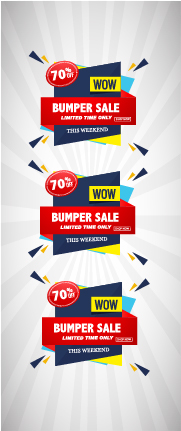
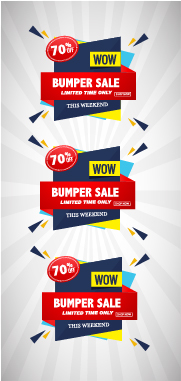
ban

Changed region(s): [[0.1381, 0.0577, 0.8287, 0.9239]]

diff --git a/index.html b/index.html
@@ -431,7 +431,7 @@
             <div class="row">
                 <div class="col-lg-2 col-md-3">
                     <div class="addbanner slider-arrow">
-                        <img src="images/adds/adbanner.jpg" class="img-fluid"  alt="truck" />
+                        <img src="images/adds/219x338.png" class="img-fluid"  alt="truck" />
                         <img src="images/adds/adbanner.jpg"  class="img-fluid" alt="truck" />
                         <img src="images/adds/adbanner.jpg"  class="img-fluid" alt="truck" />
                         <img src="images/adds/adbanner.jpg"  class="img-fluid" alt="truck" />
